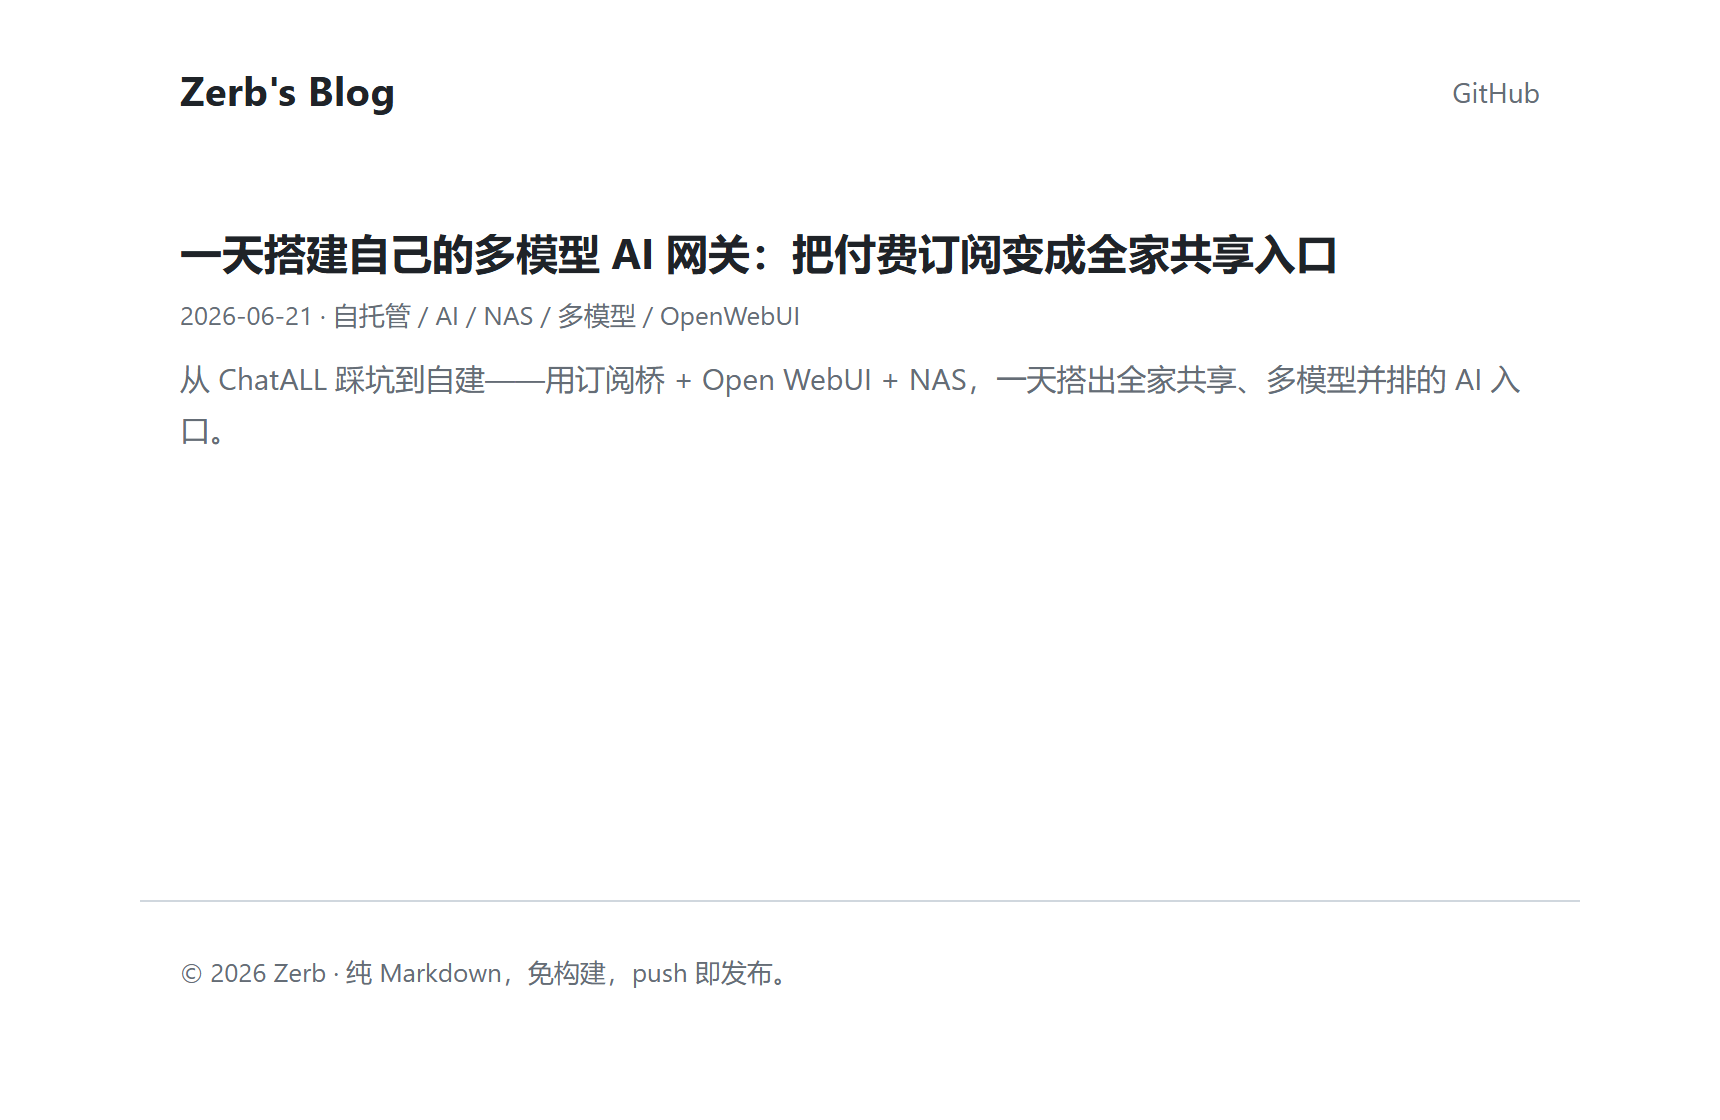
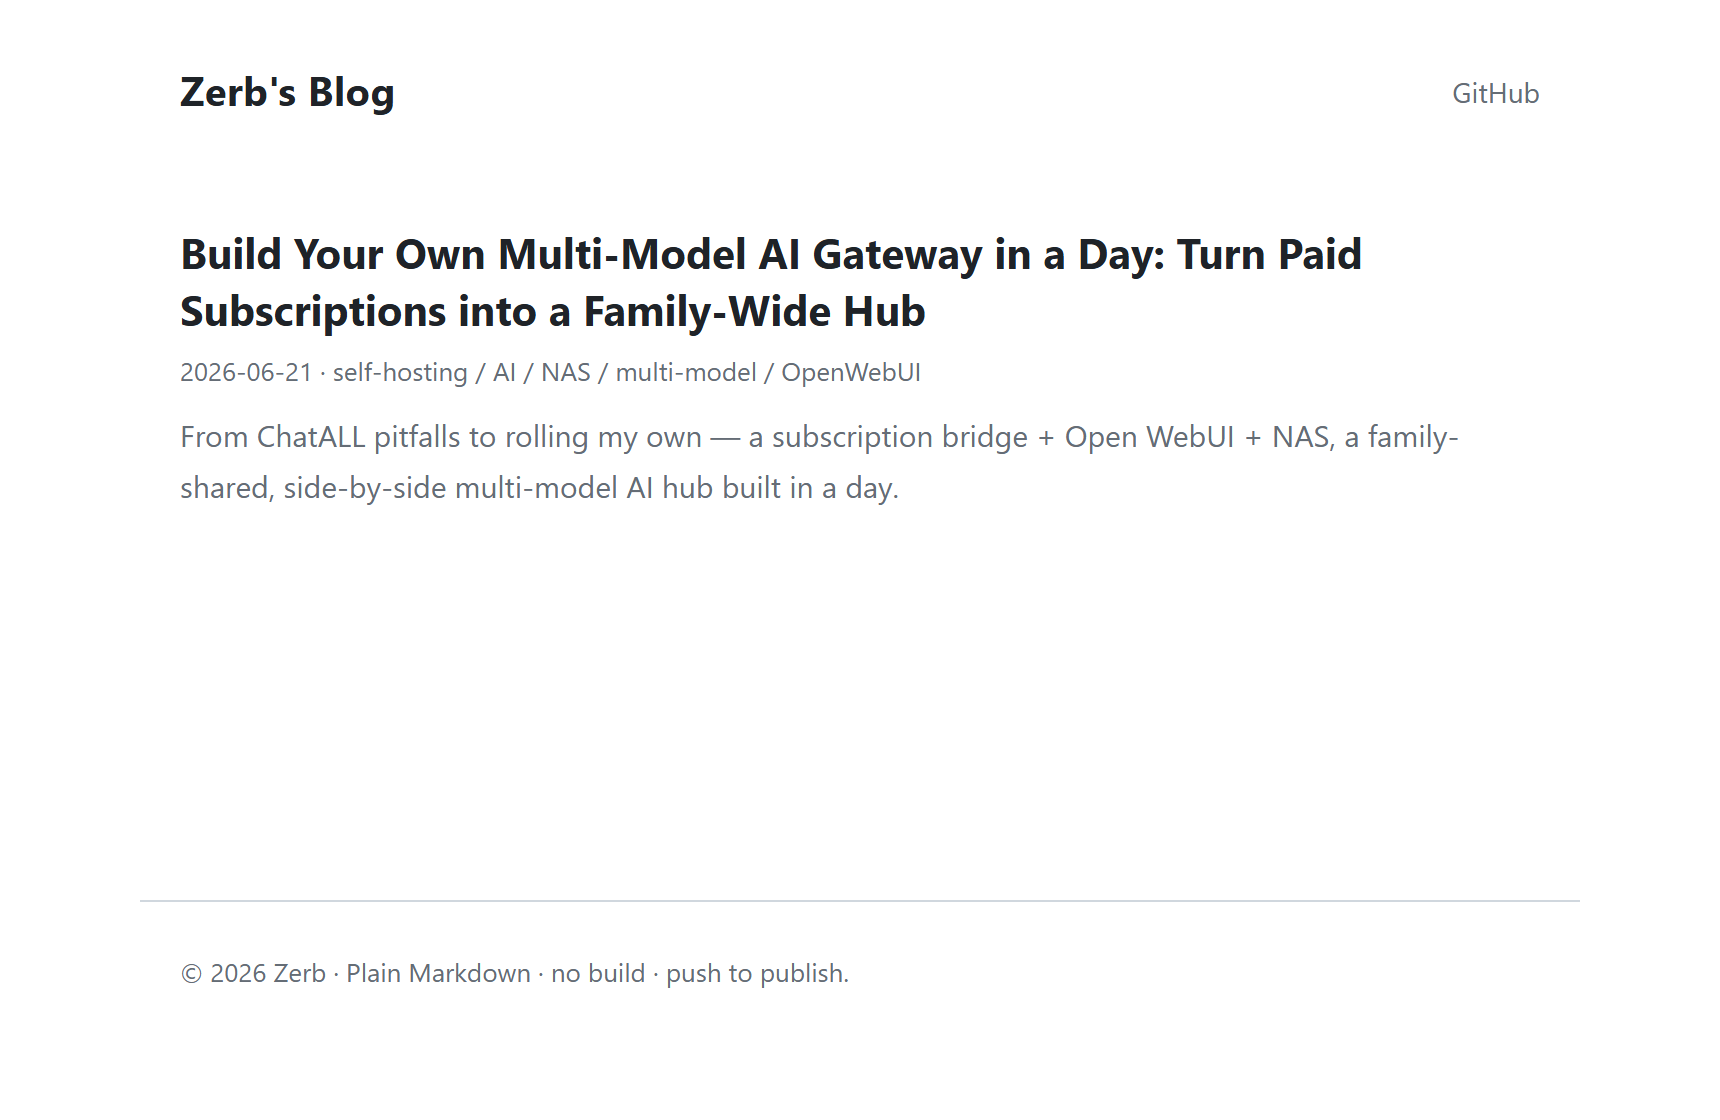
站点 chrome 一律英文 + 首页列表加缓存兜底 + README hero 换英文首页
- app.js：UI 文案统一英文（英文为主站点）；中文按钮只切文章正文
- app.js：listPosts 成功结果存 localStorage，API 403 限流时回退到缓存列表，首页不再白屏报错
- docs/screenshot-home.png：换成英文首页截图

diff --git a/assets/app.js b/assets/app.js
@@ -31,7 +31,7 @@ const STR = {
         loadingPost: '加载文章…', postErr: '文章加载失败：', older: '← 更早', newer: '更新 →',
         footer: '纯 Markdown · 免构建 · push 即发布。' },
 };
-function t(k, lang) { return STR[lang || currentLang()][k]; }
+function t(k) { return STR.en[k]; } // 站点 chrome 一律英文（英文为主站点）；中文按钮只切文章正文
 function applyChrome(lang) {
   const f = document.getElementById('tagline'); if (f) f.textContent = t('footer', lang);
   document.documentElement.lang = (lang || currentLang()) === 'zh' ? 'zh-CN' : 'en';
@@ -74,25 +74,33 @@ async function fetchText(url) {
 }
 
 async function listPosts() {
-  const api = `https://api.github.com/repos/${CONFIG.repo}/contents/${CONFIG.postsDir}?ref=${CONFIG.branch}`;
-  const r = await fetch(api, { headers: { Accept: 'application/vnd.github+json' } });
-  if (!r.ok) throw new Error('GitHub API ' + r.status);
-  const items = await r.json();
-  const dirs = items.filter(it => it.type === 'dir').map(it => it.name);
-  const posts = await Promise.all(dirs.map(async name => {
-    const { date, slug } = parseDir(name);
-    let meta = {};
-    try { meta = parseFrontmatter(await fetchText(`${CONFIG.postsDir}/${name}/index.md`)).meta; } catch (e) {}
-    return {
-      dir: name,
-      title: meta.title || slug,
-      date: meta.date || date,
-      summary: meta.summary || '',
-      tags: Array.isArray(meta.tags) ? meta.tags : [],
-    };
-  }));
-  posts.sort((a, b) => String(b.date).localeCompare(String(a.date)));
-  return posts;
+  try {
+    const api = `https://api.github.com/repos/${CONFIG.repo}/contents/${CONFIG.postsDir}?ref=${CONFIG.branch}`;
+    const r = await fetch(api, { headers: { Accept: 'application/vnd.github+json' } });
+    if (!r.ok) throw new Error('GitHub API ' + r.status);
+    const items = await r.json();
+    const dirs = items.filter(it => it.type === 'dir').map(it => it.name);
+    const posts = await Promise.all(dirs.map(async name => {
+      const { date, slug } = parseDir(name);
+      let meta = {};
+      try { meta = parseFrontmatter(await fetchText(`${CONFIG.postsDir}/${name}/index.md`)).meta; } catch (e) {}
+      return {
+        dir: name,
+        title: meta.title || slug,
+        date: meta.date || date,
+        summary: meta.summary || '',
+        tags: Array.isArray(meta.tags) ? meta.tags : [],
+      };
+    }));
+    posts.sort((a, b) => String(b.date).localeCompare(String(a.date)));
+    try { localStorage.setItem('postsCache', JSON.stringify(posts)); } catch (e) {}
+    return posts;
+  } catch (e) {
+    // API 限流（匿名每小时 60 次）或网络失败时，回退到上次成功加载的列表，避免首页报错
+    const cached = localStorage.getItem('postsCache');
+    if (cached) { try { return JSON.parse(cached); } catch (_) {} }
+    throw e;
+  }
 }
 
 let _postsCache = null;